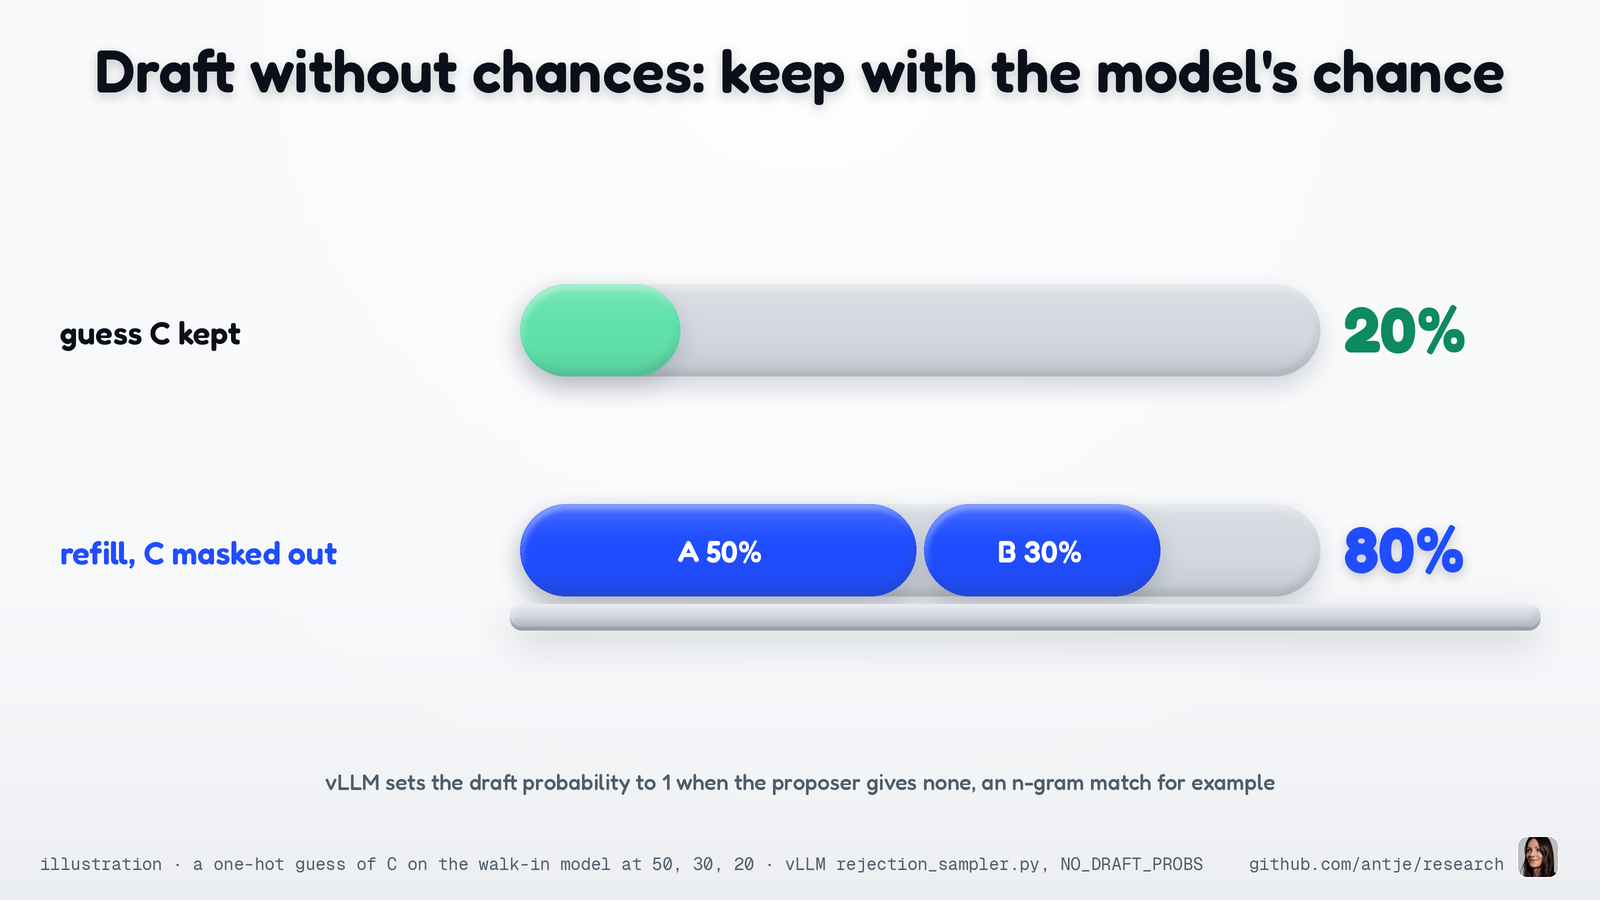
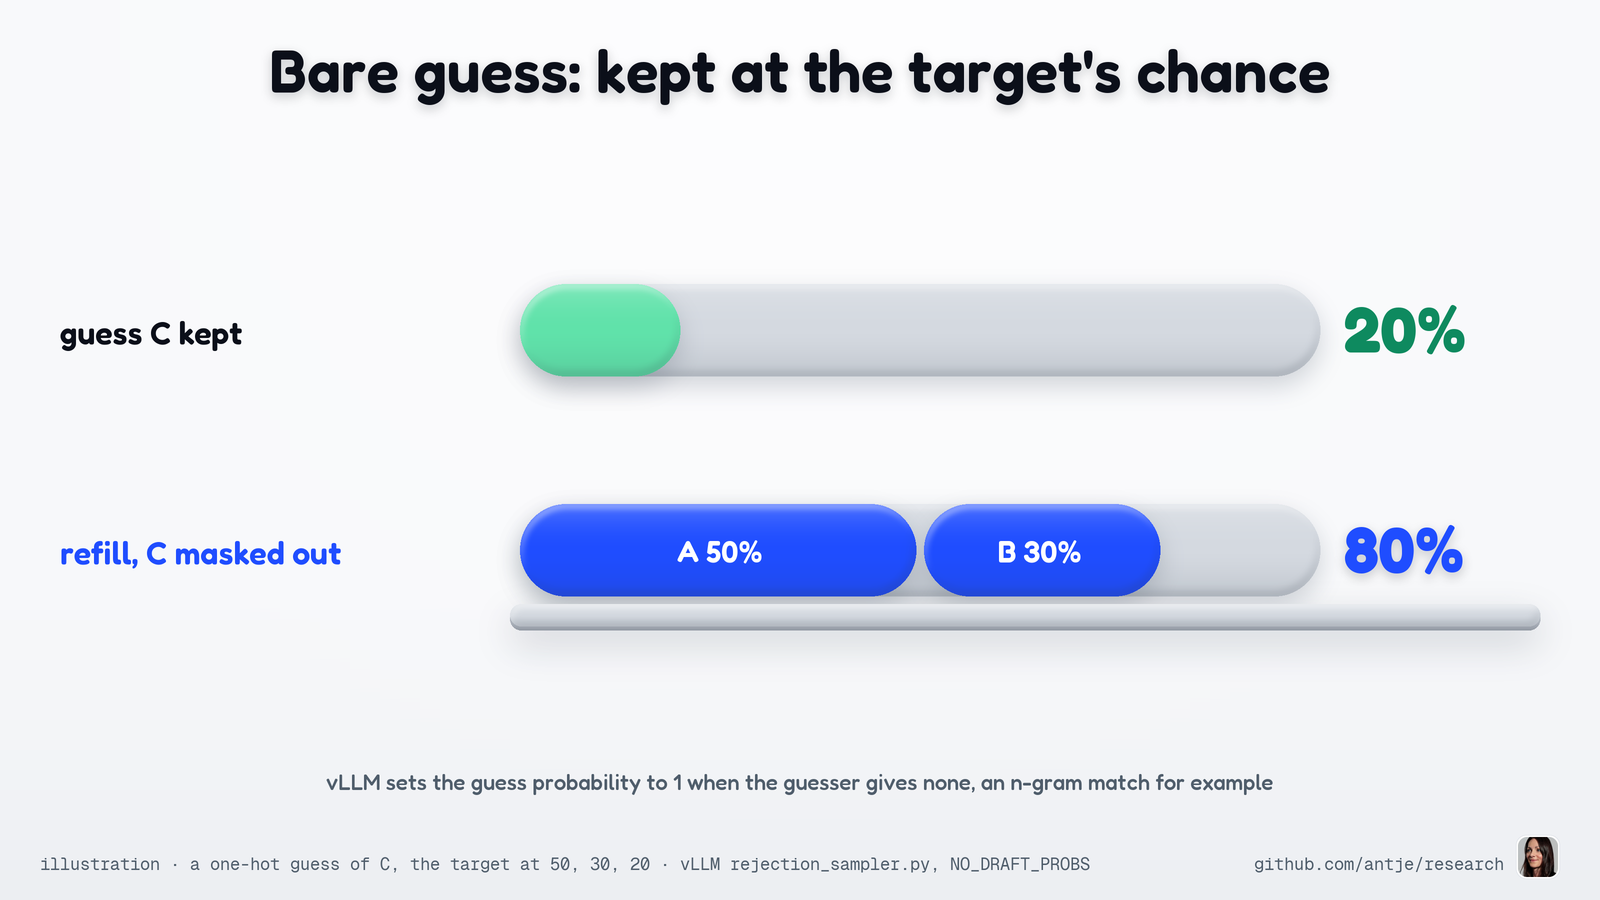
Add 2026-10-25-pm-bad-guesser-same-answer: Why a bad guesser can't change what your model says

diff --git a/posts/2026-10-25-pm-bad-guesser-same-answer/README.md b/posts/2026-10-25-pm-bad-guesser-same-answer/README.md
@@ -2,23 +2,23 @@
 
 # Why a bad guesser can't change what your model says
 
-**Speculative decoding keeps a draft token with probability min(1, p/q) and refills the rest from what the draft under-guessed. For any draft, the output is exactly the target's. Only speed changes.**
+**In speculative decoding a small guesser proposes the next tokens and the big target model checks them. With the exact rule, the output is the target's for any guesser. Only speed changes.**
 
 *Antje Barth, October 25, 2026*
 
 ![Cover: a grey robot on a heap of crumpled guesses throws another one away while a blue robot at a desk stamps cards calmly](images/fun.png)
 
-Speculative decoding (a small model guesses the next tokens, the big model checks them in one pass) now ships with two kinds of checker. vLLM's documentation, updated October 23, lists FLy Verification as lossy beside the standard checker, and SGLang exposes acceptance thresholds that "accept more aggressively". The exact checker's guarantee: the guesser cannot change the answer at all.
+Speculative decoding speeds up a big model, the target, by letting a cheap guesser propose the next few tokens, which the target checks in one pass. The guesser is usually a small model, sometimes just a lookup that copies earlier text. It now ships with two kinds of checker. vLLM's documentation, updated October 23, lists the lossy FLy Verification beside the standard checker, and SGLang exposes thresholds that "accept more aggressively". The exact checker's guarantee: the guesser cannot change the answer at all.
 
 ## The one fact
 
-Leviathan, Kalman and Matias wrote the rule down in 2022. Sample a token from the draft's distribution q. Keep it with probability min(1, p/q), where p is the target model's probability for it. Otherwise draw the replacement from p − q, clipped at zero and renormalized. Their Appendix A.1 shows in one sum that for any p and q the result is distributed as p.
+Leviathan, Kalman and Matias wrote the rule down in 2022. With q the guesser's probabilities and p the target's, the guesser samples a token from q. The checker keeps it with probability min(1, p/q). Otherwise draw the replacement from p − q, clipped at zero and renormalized. Their Appendix A.1 shows in one sum that for any p and q the result is distributed as p.
 
 ## A guesser who gets the order backwards
 
-Picture a model that picks A, B or C with chances 50, 30, 20, and a guesser who has it backwards: 20, 30, 50. The checker keeps A whenever proposed (50 ≥ 20) and B too (30 = 30), but C only 2 in 5 times (20 over 50). A guess survives 70% of the time: 20 + 30 + 20.
+Picture a target that picks A, B or C with chances 50, 30, 20, and a guesser who has it backwards: 20, 30, 50. The checker keeps A whenever proposed (50 ≥ 20) and B too (30 = 30), but C only 2 in 5 times (20 over 50). A guess survives 70% of the time: 20 + 30 + 20.
 
-When C is thrown out, the checker draws not from the model but from p − q clipped at zero, 30% on A and nothing else, so every replacement is A.
+When C is thrown out, the checker draws not from the target but from p − q clipped at zero, 30% on A and nothing else, so every replacement is A.
 
 Add it up. A: 20 kept plus 30 replaced, 50. B: 30 kept, 30. C: 50 proposed times 40% kept, 20.
 
@@ -31,41 +31,41 @@ In general a token is kept with chance q times min(1, p/q), which is min(p, q). 
 
 ## What a worse guesser costs, and what it doesn't
 
-The keep rate is the overlap of the two distributions, the sum over tokens of min(p, q). A perfect guesser (q = p) keeps 100%. The backwards guesser keeps 70%. A uniform guess over Qwen3-8B's vocabulary gives every token a 1 in 151,936 chance, keeps almost nothing, and still gives exact answers.
+The keep rate, the share of guesses the checker keeps, is the overlap of the two distributions, the sum over tokens of min(p, q). A perfect guesser (q = p) keeps 100%. The backwards guesser keeps 70%. A uniform guess over Qwen3-8B's vocabulary gives every token a 1 in 151,936 chance, keeps almost nothing, and still gives exact answers.
 
 ![Worse guesses, same answer, fewer kept: two guessers, one keeps 100% and one keeps 70%, both produce the model's 50, 30, 20](images/b.png)
 
-An n-gram drafter (it matches recent tokens against earlier text) gives a token and no probabilities, a q with all its mass on one token. The rule degrades to "keep with probability p of the guess", the pool to p minus that guess, and vLLM's sampler does exactly that (draft probability 1, the drafted token masked out of the replacement draw).
+An n-gram guesser (it matches recent tokens against earlier text) gives a token and no probabilities, a q with all its mass on one token. The rule degrades to "keep with probability p of the guess", the pool to p minus that guess, and vLLM's sampler does exactly that (guess probability set to 1, the guessed token masked out of the replacement draw).
 
 ## Where the exactness goes
 
-The guarantee comes with two conditions and one way to lose it. First, p must be the target's distribution after temperature, top-k and top-p, and q the distribution the draft token actually came from. Matching settings on the draft raises the keep rate only. Second, p and q are rounded floating-point numbers, so the guarantee holds "up to the precision limits of hardware numerics" (vLLM's words).
+The guarantee comes with two conditions and one way to lose it. First, p must be the target's distribution after temperature, top-k and top-p, and q the distribution the guessed token actually came from. Second, p and q are rounded floating-point numbers, so the guarantee holds "up to the precision limits of hardware numerics" (vLLM's words).
 
-Third, and biggest: any rule that keeps a guess the exact rule would throw out changes the output. Medusa's typical acceptance keeps a candidate when the model's probability clears a threshold, calling a matched distribution "typically unnecessary". vLLM's FLy "is intentionally lossy": its page reports speedups in all 40 primary configurations (AMD MI355X, 10 benchmarks, temperature 0, greedy draft) and a quality retention, FLy's score over standard decoding's, of 97.9% at worst over the 29 configurations scored that way. SGLang's thresholds, default 1.0, "accept more aggressively" when lowered. Medusa and FLy are documented as inexact, a threshold below 1 keeps guesses the rule would drop, and no accuracy benchmark tells you how far the output moved.
+Third, and biggest: any rule that keeps a guess the exact rule would throw out changes the output. Medusa's typical acceptance keeps a candidate when the target's probability clears a threshold, calling a matched distribution "typically unnecessary". vLLM's FLy "is intentionally lossy": its page reports speedups in all 40 primary configurations (AMD MI355X, 10 benchmarks, temperature 0, greedy guesser) and a quality retention, FLy's score over standard decoding's, of 97.9% at worst over the 29 configurations scored that way. SGLang's thresholds, default 1.0, "accept more aggressively" when lowered.
 
 ## Measured on a B200
 
-In one run on a B200 against Qwen3-8B's next-token distribution (151,936 tokens, temperature 1), 16.8 million guesses through the rule gave the model's histogram for every drafter, from the model itself to a uniform guess, within the noise of exact draws, while the keep rate ran from 1.0 to 0.0008 and landed on the overlap each time. Four wrong rules moved 7.9% to 10% of the mass, as their closed forms predict. vLLM's kernel, and vLLM serving with its n-gram drafter (60% of draft tokens kept), matched. The rule's float32 arithmetic changed 0 keep decisions in 16.8 million: the 0.7% to 1.8% numerics gap sits in the model's bf16 output head, not the verifier.
+In one run on a B200 against Qwen3-8B's next-token distribution (151,936 tokens, temperature 1), 16.8 million guesses through the rule gave the target's histogram for every guesser, from the target itself to a uniform guess, within the noise of exact draws, while the keep rate ran from 1.0 to 0.0008 and landed on the overlap each time. Four wrong rules moved 7.9% to 10% of the mass, as their closed forms predict. vLLM's kernel, and vLLM serving with its n-gram guesser (60% of guessed tokens kept), matched. The rule's float32 arithmetic changed 0 keep decisions in 16.8 million: the 0.7% to 1.8% numerics gap sits in the target's bf16 output head, not the checker.
 
-![One run on a B200: three drafters keep 1.0000, 0.6396 and 0.0008 of their guesses and all land within 0.042% of the model's histogram, while the keep-if-likelier rule lands 7.861% off](images/d.png)
+![One run on a B200: three guessers keep 1.0000, 0.6396 and 0.0008 of their guesses and all land within 0.042% of the target's histogram, while the keep-if-likelier rule lands 7.861% off](images/d.png)
 
 ## Run it
 
 ```bash
 cd posts/2026-10-25-pm-bad-guesser-same-answer/code
 CUDA_VISIBLE_DEVICES=0 python -m bad_guesser --quick   # torch, transformers, vLLM 0.31 and Qwen/Qwen3-8B cached; under a minute (the full run: about 4 minutes)
-uv run --extra gpu pytest -q                           # the walk-in anywhere, the rule and vLLM's kernels on a GPU
+uv run --extra gpu pytest -q                           # the A, B, C example anywhere, the rule and vLLM's kernels on a GPU
 ```
 
 ## How to spot it
 
-Sample the next token thousands of times at one fixed prompt, with and without speculation, at temperature 1, and compare the histograms against the gap between two runs without speculation. The exact rule stays inside that gap, a lossy verifier shows outside it, usually as rarer tokens going missing. The intuitive wrong rule (keep only when the model finds the guess at least as likely as the guesser did, else sample fresh) turns the walk-in's 50, 30, 20 into 45, 45, 10.
+Sample the next token thousands of times at one fixed prompt, with and without speculation, at temperature 1, and compare the histograms against the gap between two runs without speculation. The exact rule stays inside that gap, a lossy checker shows outside it, usually as rarer tokens going missing. The intuitive wrong rule (keep only when the target finds the guess at least as likely as the guesser did, else sample fresh from the target) turns the example's 50, 30, 20 into 45, 45, 10.
 
 ![A stricter rule bends the answer: the exact rule gives 50, 30, 20 in blue, keeping only the likelier guess gives 45, 45, 10 in green](images/c.png)
 
 ## The rule
 
-A drafter changes your speed, never your output distribution, as long as the verifier keeps the min(1, p/q) accept and the clipped p − q refill, with p the target's distribution after temperature and top-p and q the one the draft actually sampled from. It bites because every knob that keeps more guesses than the rule allows pays for speed with the model's distribution, and no accuracy benchmark will tell you by how much.
+A guesser changes your speed, never your output distribution, as long as the checker keeps the min(1, p/q) accept and the clipped p − q refill, with p the target's distribution after temperature and top-p and q the one the guesser actually sampled from. It bites because every knob that keeps more guesses than the rule allows pays for speed with the target's distribution, and no accuracy benchmark will tell you by how much.
 
 ## What this means for you
 
@@ -79,7 +79,7 @@ Speculative decoding lets a small model guess and a big one check. The checker k
 
 ![Refill from the gap, not the model: rows A, B, C with the model's 50%, 30%, 20% as grey bars, the guesser's 20%, 30%, 50% as green bars, and the refill pool as one blue bar of 30% on A](images/aud-ml-engineer.png)
 
-After a rejection the checker does not resample from the model. It draws from the model's chance minus the guesser's, clipped at zero: on this walk-in that is 30% on A and nothing else, which is exactly the gap the kept guesses left.
+After a rejection the checker does not resample from the target. It draws from the target's chance minus the guesser's, clipped at zero: in the A, B, C example that is 30% on A and nothing else, which is exactly the gap the kept guesses left.
 
 ### For performance and capacity engineers
 
@@ -89,21 +89,21 @@ The keep rate is the overlap of the two distributions, and tokens per target pas
 
 ### For CUDA and hardware folks
 
-![Draft without chances: keep with the model's chance: a green bar of 20% for guess C kept, and two blue bars for the refill with C masked out, A 50% and B 30%, 80% in total](images/aud-kernel-folks.png)
+![Bare guess: kept at the target's chance: a green bar of 20% for guess C kept, and two blue bars for the refill with C masked out, A 50% and B 30%, 80% in total](images/aud-kernel-folks.png)
 
-An n-gram or greedy draft is a one-hot q. vLLM's rejection sampler then sets the draft probability to 1, keeps the guess with probability p, and draws the recovered token from the target with the drafted token masked out. On the walk-in a guess of C is kept 20% of the time and the other 80% lands on A and B in the model's proportions.
+An n-gram or greedy guesser puts all its chance on one token. vLLM's rejection sampler then sets the guess probability to 1, keeps the guess with probability p, and draws the replacement from the target with the guessed token masked out. In the A, B, C example a guess of C is kept 20% of the time and the other 80% lands on A and B in the model's proportions.
 
 ### For VCs and business readers
 
 ![The guesser sets the speed, not the product: a backwards guesser keeps 70% and a perfect guesser 100% of guesses, green bars, each row tagged same answers in blue](images/aud-vc-business.png)
 
-A draft model is a speed knob. A weaker one keeps fewer guesses per pass, so the big model runs more often, and the answers it gives are the same ones it would give alone.
+The guesser is a speed knob. A weaker one keeps fewer guesses per pass, so the big model runs more often, and the answers it gives are the same ones it would give alone.
 
 ### For analysts
 
 ![FLy is faster and not exact: three bars, answers changed by the exact rule at 0 in blue, FLy's quality kept at 97.9% and its speedup from 1.19x to 1.94x on an MI355X in green](images/aud-analyst.png)
 
-vLLM now documents an exact verifier and a lossy one side by side. The standard rule changes zero answers for any draft. FLy reports speedups in all 40 primary configurations on its page (AMD MI355X, temperature 0, greedy draft) and a quality retention of 97.9% at worst over the 29 configurations scored that way, and it does not preserve the target distribution.
+vLLM now documents an exact checker and a lossy one side by side. The standard rule changes zero answers for any guesser. FLy reports speedups in all 40 primary configurations on its page (AMD MI355X, temperature 0, greedy guesser) and a quality retention of 97.9% at worst over the 29 configurations scored that way, and it does not preserve the target distribution.
 
 ## Sources
 
@@ -114,7 +114,7 @@ vLLM now documents an exact verifier and a lossy one side by side. The standard 
 - Cai et al., Medusa (arXiv 2401.10774, 2024), § 2.3.1 Typical Acceptance. https://arxiv.org/abs/2401.10774
 - vLLM documentation, Speculative Decoding (page dated October 23, 2026, fetched October 26, 2026): lossless guarantees, the convergence and greedy-equality tests, FLy listed as lossy, heterogeneous vocabularies. https://docs.vllm.ai/en/latest/features/speculative_decoding.html
 - vLLM documentation, FLy Verification (fetched October 26, 2026): intentionally lossy, the validated configurations on AMD MI355X and NVIDIA B300. https://docs.vllm.ai/en/latest/features/speculative_decoding/fly/
-- vLLM, vllm/v1/sample/rejection_sampler.py (main, fetched October 26, 2026): the accept test, the no-draft-probabilities path, the recovered-token kernel, the sampling constraints. https://github.com/vllm-project/vllm/blob/main/vllm/v1/sample/rejection_sampler.py
+- vLLM, vllm/v1/sample/rejection_sampler.py (main, fetched October 26, 2026): the accept test, the path for a guesser without probabilities, the recovered-token kernel, the sampling constraints. https://github.com/vllm-project/vllm/blob/main/vllm/v1/sample/rejection_sampler.py
 - vLLM, tests/v1/sample/test_rejection_sampler.py (main, fetched October 26, 2026): the convergence test. https://github.com/vllm-project/vllm/blob/main/tests/v1/sample/test_rejection_sampler.py
 - SGLang documentation, Speculative Decoding, parameter reference (fetched October 26, 2026): the acceptance thresholds. https://docs.sglang.ai/advanced_features/speculative_decoding.html
 - Qwen/Qwen3-8B config.json: vocabulary size 151,936. https://huggingface.co/Qwen/Qwen3-8B/blob/main/config.json

diff --git a/posts/2026-10-25-pm-bad-guesser-same-answer/code/README.md b/posts/2026-10-25-pm-bad-guesser-same-answer/code/README.md
@@ -1,6 +1,8 @@
 # The acceptance rule, run millions of times against Qwen3-8B on a B200
 
-The post says speculative decoding's verifier makes the output distribution exactly the target model's for any draft, however bad: keep a guess x with probability min(1, p(x) / q(x)), otherwise replace it with a draw from max(0, p − q) normalized, and the chance of ending on any token is p(x). The draft's quality sets only how many guesses survive (the overlap, the sum of min(p, q)). Every rule that keeps more guesses than that changes the distribution, and the only gap left in the exact rule is floating-point arithmetic. This code puts each of those sentences on hardware with a real model's distributions, vLLM's own kernels, and vLLM serving.
+Terms: the post's guesser is what vLLM, the papers and this code call the draft model or drafter (it proposes tokens), and the target is the big model that checks them.
+
+The post says speculative decoding's checker makes the output distribution exactly the target's for any guesser, however bad: keep a guess x with probability min(1, p(x) / q(x)), otherwise replace it with a draw from max(0, p − q) normalized, and the chance of ending on any token is p(x). The draft's quality sets only how many guesses survive (the overlap, the sum of min(p, q)). Every rule that keeps more guesses than that changes the distribution, and the only gap left in the exact rule is floating-point arithmetic. This code puts each of those sentences on hardware with a real model's distributions, vLLM's own kernels, and vLLM serving.
 
 ## What it measures
 
@@ -20,7 +22,7 @@ Numbers below are from one run on one B200 ([`results/b200-same-answer.md`](resu
 
 - **Every drafter gave the target's histogram.** Across 48 drafter-prefix pairs the distance to p sat on the floor (for "My favorite color is": 0.370% to 0.385% against a floor of 0.389%; for "Once upon a time, there was a": 0.551% to 0.566% against 0.566%) and chi-square per degree of freedom stayed between 0.83 and 1.22 on the five prefixes with any entropy (on "import numpy as", where one token holds all the mass and the statistic has almost no bins, it reads 0.56 to 1.77). Meanwhile acceptance ran the whole range and landed on the overlap every time: 1.000 for the target itself, 0.6395 predicted and 0.6396 measured at temperature 2 on "The number I am thinking of is", 0.2877 and 0.2875 for the one-hot on its top token, 0.0008 for the uniform drafter, 0.0000 for a one-hot on a random token. A guesser that is wrong almost every time still left the model's answer alone.
 - **Every wrong rule moved it, by exactly the closed-form amount.** On "The number I am thinking of is" with the temperature-2 drafter: keep-if-p-at-least-q moved 7.86% of the probability mass (7.87% predicted), keep-the-top-token 10.04% (10.03%), the 0.05 threshold 7.89% (7.87%), lenience at 0.5 8.09% (8.08%), against a floor of 0.036%; chi-square per degree of freedom 5,460 to 6,350 against 1.2 for the exact rule on the same inputs. The lenient rule's largest gain in closed form is 2.00, its promised bound; the run reads it at 2.24 to 2.28 with about 10% of sampling noise on the tokens that set it.
-- **The numerics gap is the bf16 head, not the rule.** The rule's arithmetic in float32 against float64 changed 0 of 16,777,216 keep decisions at every prefix and 0 to 9 of 16,777,216 outputs (the replacement draw's cumulative sum rounding). What does move the distribution is the output head: vLLM's bf16-head target differs from the float32-head target by 0.70% ("The number I am thinking of is") to 1.83% ("My favorite color is") of total variation, 0.000% at the zero-entropy prefix, and the rule on the bf16 target reproduces that target to the floor (0.033% against 0.036%) while sitting 0.71% from the float32 one. Plain sampling without a drafter sees the same 0.7 to 1.8%: the gap belongs to the model's head, and the verifier adds nothing to it.
+- **The numerics gap is the bf16 head, not the rule.** The rule's arithmetic in float32 against float64 changed 0 of 16,777,216 keep decisions at every prefix and 0 to 9 of 16,777,216 outputs (the replacement draw's cumulative sum rounding). What does move the distribution is the output head: vLLM's bf16-head target differs from the float32-head target by 0.70% ("The number I am thinking of is") to 1.83% ("My favorite color is") of total variation, 0.000% at the zero-entropy prefix, and the rule on the bf16 target reproduces that target to the floor (0.033% against 0.036%) while sitting 0.71% from the float32 one. Plain sampling without a drafter sees the same 0.7 to 1.8%: the gap belongs to the model's head, and the checker adds nothing to it.
 - **vLLM's kernels do the same.** Through `rejection_sample`, 2^23 draws per drafter: acceptance 0.6396 at temperature 2 (0.6395 predicted), 0.2876 and 0.2875 for the one-hot guess handed over as probabilities and through the no-draft-probabilities path (0.2877), 0.0008 for the uniform drafter; every histogram within the floor (0.030% to 0.047% against 0.035% on "The number I am thinking of is", 0.197% to 0.215% against 0.219% on the letter prefix), chi-square per degree of freedom 0.90 to 1.17, the bonus-token column consistent on every row.
 - **vLLM serving does too.** With the n-gram drafter on, the engine made 65,505 drafts of 3 tokens and kept 60.0% of the drafted tokens, and the histograms of the first drafted positions sat on the floor set by two plain runs: at the second token of the cat-and-mat prompt the drafted engine was 2.02% from plain run 1 where plain run 2 was 2.08% from it, at the third 4.20% against 4.13%; on the colors prompt 0.96% against 1.30% and 2.92% against 2.93%. The first token, never a draft, agreed to 0.01%. (An earlier version of this check let all three engines use vLLM's default sampler seed, and the two plain runs reproduced each other bit for bit, a floor of 0.000% that measured nothing. Each engine now gets its own seed.)
 
@@ -32,7 +34,7 @@ On a Blackwell GPU with a python that has torch 2.13, transformers 5.17 and vLLM
 cd code
 CUDA_VISIBLE_DEVICES=0 python -m bad_guesser --quick      # two prefixes, 2^20 draws, no serving run: under a minute
 CUDA_VISIBLE_DEVICES=0 python -m bad_guesser              # the full run, about four minutes (three of them the three vLLM engines)
-uv run --extra gpu pytest -q                              # the walk-in anywhere; the rule, the kernels and the model on a GPU
+uv run --extra gpu pytest -q                              # the A, B, C example anywhere; the rule, the kernels and the model on a GPU
 ```
 
 `--draws` and `--kernel-draws` set the log2 of the draws (24 and 23 by default), `--served` the samples per prompt (32,768; 0 skips the engines), `--seed` the generator seed. The script prints the results file and writes `results/<name>.md` and `.json`.
@@ -43,9 +45,9 @@ uv run --extra gpu pytest -q                              # the walk-in anywhere
 
 ## Files
 
-- [`src/bad_guesser/walkin.py`](src/bad_guesser/walkin.py): the post's three-token walk-in and the closed forms, in plain Python.
+- [`src/bad_guesser/walkin.py`](src/bad_guesser/walkin.py): the post's A, B, C example and the closed forms, in plain Python.
 - [`src/bad_guesser/rule.py`](src/bad_guesser/rule.py): the exact rule, the lenient one and the three wrong ones in torch, the drafters, the closed-form predictions, the statistics.
 - [`src/bad_guesser/target.py`](src/bad_guesser/target.py): Qwen3-8B's next-token logits at the prefixes through the bf16 head and the float32 head.
 - [`src/bad_guesser/vllm_kernel.py`](src/bad_guesser/vllm_kernel.py): vLLM's `rejection_sample` on the same inputs.
 - [`src/bad_guesser/served.py`](src/bad_guesser/served.py): one vLLM engine per subprocess, with and without the n-gram drafter, and its counters.
-- [`tests/`](tests/): the walk-in (anywhere), the rule against its closed forms on a small vocabulary (any torch device), vLLM's kernels against the rule and the model's prefixes (on the GPU).
+- [`tests/`](tests/): the A, B, C example (anywhere), the rule against its closed forms on a small vocabulary (any torch device), vLLM's kernels against the rule and the model's prefixes (on the GPU).
